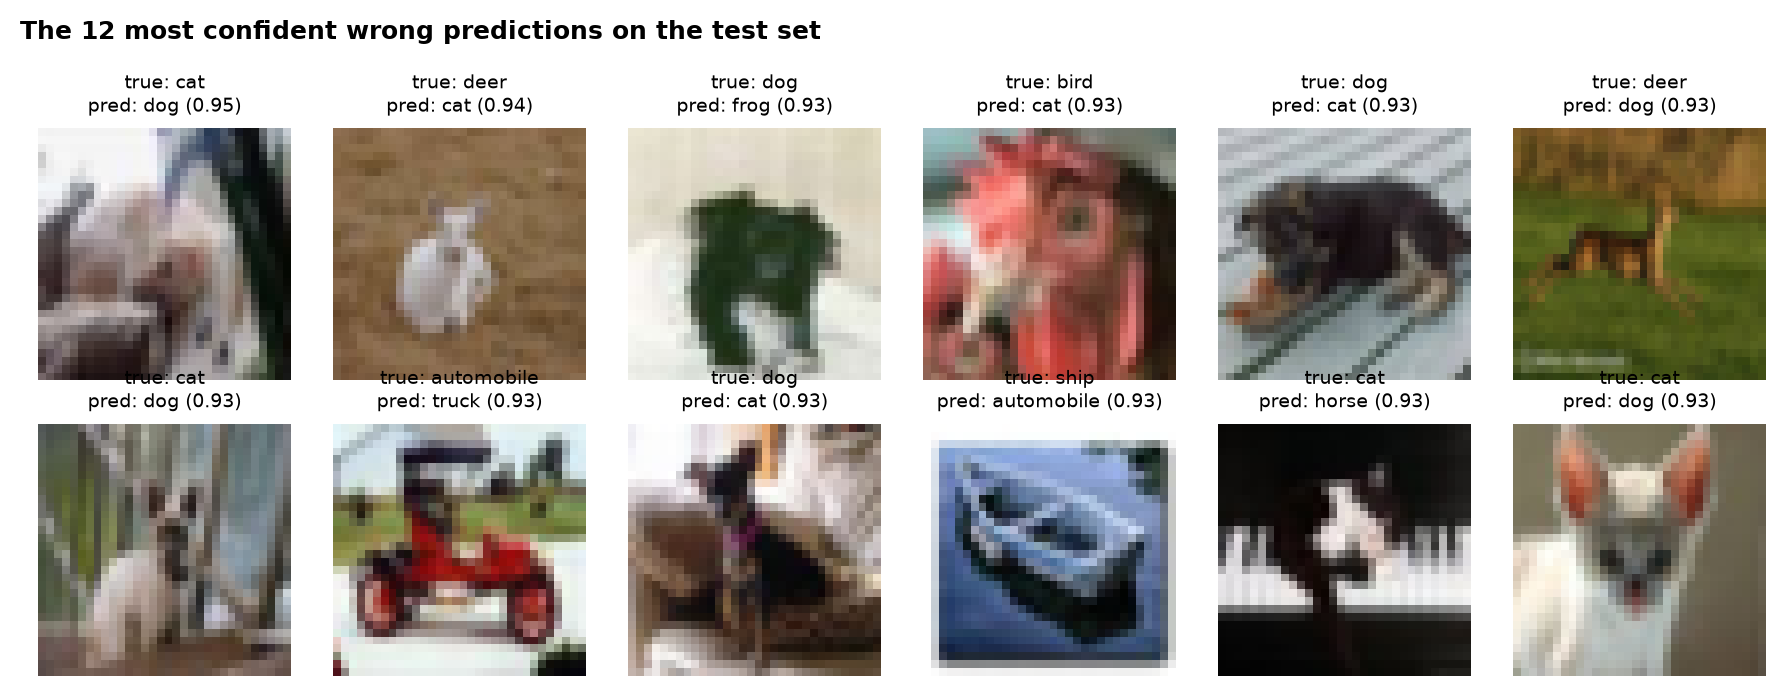
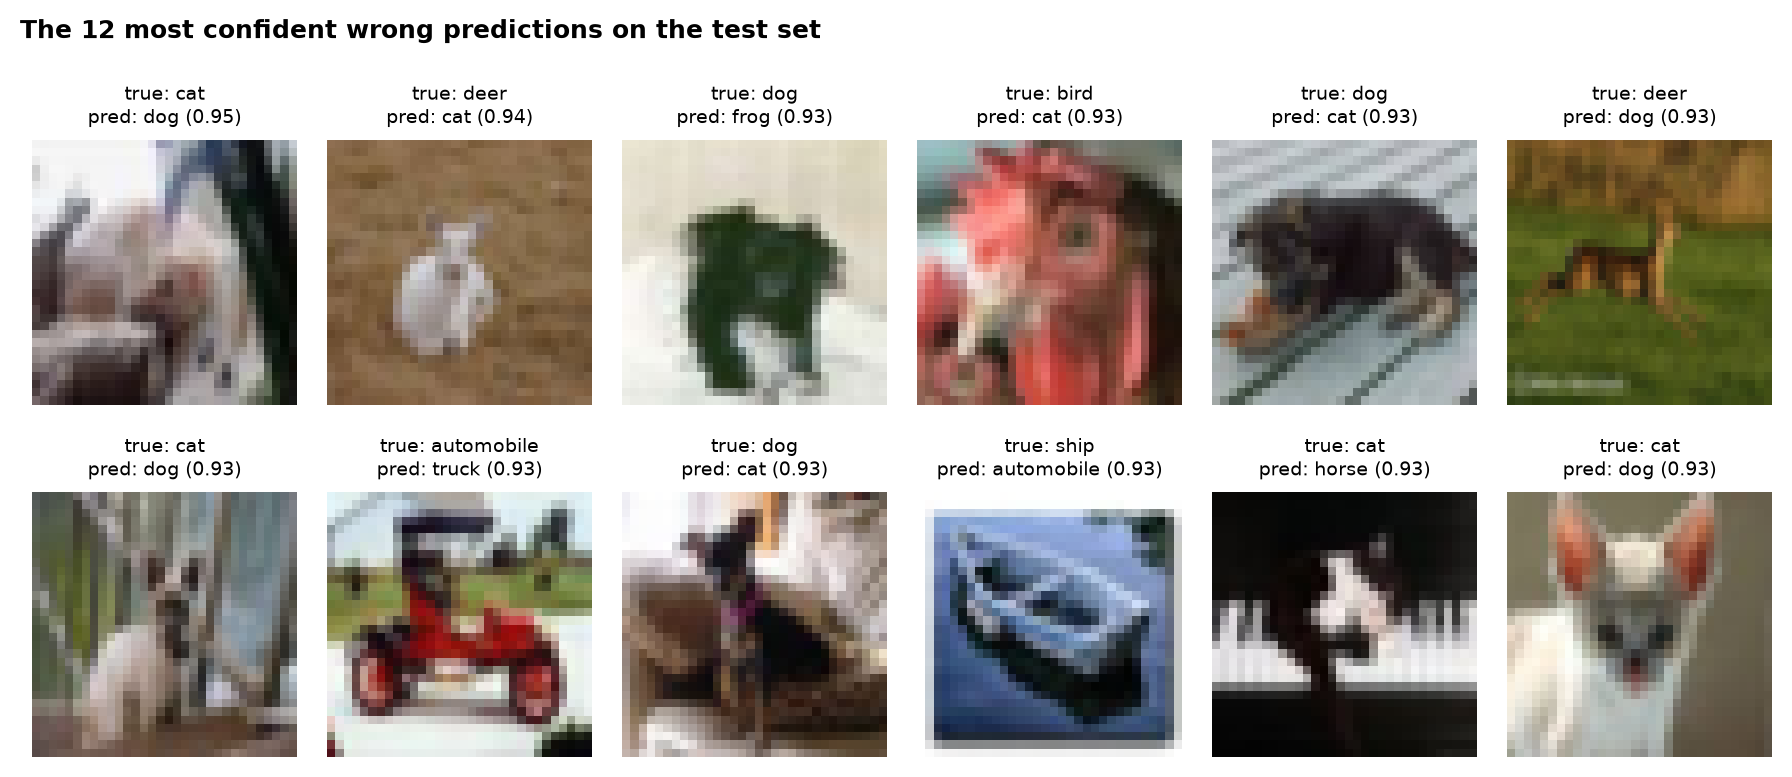
Report: baseline results and failure-mode analysis (Q1c); figure and table outputs

diff --git a/report/report.tex b/report/report.tex
@@ -127,7 +127,39 @@ SGD with Nesterov momentum and a cosine schedule is the standard recipe for CIFA
 
 \subsection*{(c) Final test accuracy, curves and failure modes}
 
-\BaselineText
+\textbf{Final result.} After \BaselineEpochs{} epochs the full-precision MobileNet-v2 reaches a \textbf{test top-1 accuracy of \BaselineAcc\%} (test cross-entropy 0.226, 464 errors on 10{,}000 images). Its accuracy on the un-augmented training set is \BaselineTrainAcc\%. This is the model after the last epoch; the best epoch on the test set would have been \BaselineBestEpochAcc\%, but the test set was not used for selection. Training took \BaselineHours{} hours on the laptop GPU.
+
+\begin{figure}[H]
+\centering
+\includegraphics[width=\linewidth]{figures/baseline_curves.png}
+\caption{Loss and top-1 accuracy of the baseline per epoch, and the learning-rate schedule. The training curves are measured on the augmented mini-batches during the epoch (with label smoothing in the loss); the test curves on the test set after each epoch.}
+\label{fig:curves}
+\end{figure}
+
+\textbf{Reading the curves.} The training loss lies above the test loss and, until about epoch 165, the training accuracy lies below the test accuracy. This is not under-fitting: the training numbers are computed on cropped, flipped and Cutout images with a label-smoothed loss, the test numbers on clean images with the plain cross-entropy. The accuracy rises quickly to about 80\% in the first 25 epochs and then slowly while the learning rate is high; most of the remaining gain (from 87\% at epoch 100 to 95.4\%) comes in the second half, when the cosine schedule lowers the learning rate.
+
+\textbf{Failure modes.}
+\begin{itemize}
+\item \emph{Noisy evaluation at a high learning rate.} Between epochs 21 and 60 the test accuracy fluctuates with a standard deviation of 2.2 points from one epoch to the next, with a drop to 74.7\% at epoch 41 (from 81\% the epoch before and after). Large SGD steps move the weights faster than the BatchNorm running statistics follow. Over the last 20 epochs the standard deviation is 0.18 points. A model taken from the middle of training would therefore be unreliable; the schedule has to be run to the end.
+\item \emph{Over-fitting.} The network fits the training set almost perfectly (\BaselineTrainAcc\%) but makes 4.6\% errors on the test set, in spite of weight decay, label smoothing, dropout and Cutout. The remaining errors are a generalization limit, not an optimization limit.
+\item \emph{Cat against dog.} 109 of the 464 test errors (23\%) are cats classified as dogs (65) or dogs classified as cats (44). Cat is the worst class (89.7\%), followed by dog (93.1\%) and bird (93.9\%); all other classes are between 96.2\% and 97.6\% (Figure~\ref{fig:confusion}).
+\item \emph{Errors stay inside the super-category.} 87\% of the errors confuse an animal with another animal or a vehicle with another vehicle: automobile and truck (41 errors), ship and airplane (32). At $32\times32$ pixels these classes share shape, texture and background (sky, water, road).
+\item \emph{Confident mistakes.} The mean confidence is 0.90 on correct predictions and 0.70 on wrong ones, but 62 errors have a confidence above 0.9, which is close to the maximum that label smoothing allows. Figure~\ref{fig:failures} shows the most confident ones: unusual viewpoints and close-ups (the head of a bird taken for a cat), untypical colours (a dark green dog taken for a frog), small objects on a large background, and objects seen from above (a boat taken for a car).
+\end{itemize}
+
+\begin{figure}[H]
+\centering
+\begin{minipage}{0.36\linewidth}
+\includegraphics[width=\linewidth]{figures/confusion.png}
+\end{minipage}\hfill
+\begin{minipage}{0.62\linewidth}
+\includegraphics[width=\linewidth]{figures/failures.png}
+\end{minipage}
+\caption{Left: number of test errors for every pair of true and predicted class. Right: the 12 wrong test predictions with the highest confidence.}
+\label{fig:confusion}\label{fig:failures}
+\end{figure}
+
+A further failure mode showed up only during compression and is described in Question 3: the BatchNorm statistics of this network are tied to the augmented training distribution, and re-estimating them on un-augmented training images costs 2.7 points of test accuracy even without any quantization.
 
 %=====================================================================
 \section*{Question 2: Model compression implementation}

diff --git a/report/numbers.tex b/report/numbers.tex
@@ -1,0 +1,32 @@
+\newcommand{\BaselineAcc}{95.36}
+\newcommand{\BaselineTrainAcc}{99.93}
+\newcommand{\BaselineEpochs}{200}
+\newcommand{\BaselineBestEpochAcc}{95.39}
+\newcommand{\BaselineHours}{5.0}
+\newcommand{\FPModelMB}{8.663}
+\newcommand{\FPModelBytes}{9,083,592}
+\newcommand{\BestName}{ptq\_w4\_a8}
+\newcommand{\BestAcc}{95.02}
+\newcommand{\BestDrop}{0.34}
+\newcommand{\BestSizeMB}{1.117}
+\newcommand{\BestSizeBytes}{1,170,920}
+\newcommand{\BestRatio}{7.76}
+\newcommand{\BestWeightRatio}{8.00}
+\newcommand{\BestActRatio}{4.00}
+\newcommand{\BestActPeakRatio}{4.00}
+\newcommand{\BestAvgWBits}{4.00}
+\newcommand{\BestAvgABits}{8.00}
+\newcommand{\BestOverheadPct}{5.9}
+\newcommand{\BestOverheadBytes}{69,640}
+\newcommand{\BestActMB}{1.636}
+\newcommand{\FPActMB}{6.542}
+\newcommand{\BestActPeakMB}{0.305}
+\newcommand{\FPActPeakMB}{1.219}
+\newcommand{\BestActMeasuredBytes}{1,714,984}
+\newcommand{\BestFakeQuantAcc}{95.04}
+\newcommand{\BestPtqAcc}{95.04}
+\newcommand{\BestEpochs}{0}
+\newcommand{\NumRuns}{6}
+\newcommand{\MaxRatio}{10.14}
+\newcommand{\MaxWeightRatio}{10.67}
+\newcommand{\MaxActRatio}{10.63}

diff --git a/scripts/analyze_baseline.py b/scripts/analyze_baseline.py
@@ -93,7 +93,7 @@ def main():
     idx = torch.nonzero(wrong).squeeze(1)
     idx = idx[conf[idx].argsort(descending=True)][:12]
     images = test.images[idx.to(device)].cpu().permute(0, 2, 3, 1).numpy()
-    fig, axes = plt.subplots(2, 6, figsize=(9.0, 3.5))
+    fig, axes = plt.subplots(2, 6, figsize=(9.0, 4.1))
     for ax, img, i in zip(axes.flat, images, idx.tolist()):
         ax.imshow(np.asarray(img), interpolation="nearest")
         ax.set_title(f"true: {CLASSES[labels[i]]}\npred: {CLASSES[pred[i]]} ({conf[i]:.2f})",
@@ -101,7 +101,7 @@ def main():
         ax.axis("off")
     fig.suptitle("The 12 most confident wrong predictions on the test set", x=0.01, ha="left",
                  fontsize=9, fontweight="bold")
-    fig.tight_layout()
+    fig.tight_layout(h_pad=1.6)
     fig.savefig("report/figures/failures.png", dpi=200, bbox_inches="tight")
     plt.close(fig)
 

diff --git a/report/tables/sweep.tex b/report/tables/sweep.tex
@@ -1,0 +1,12 @@
+\begin{tabular}{llrrrrrrrr}
+\toprule
+Run & Method & \shortstack{W bits\\(avg)} & \shortstack{A bits\\(ReLU6 / lin.)} & \shortstack{Test\\acc. (\%)} & \shortstack{Drop\\(pts)} & \shortstack{Size\\(MB)} & \shortstack{Model\\ratio} & \shortstack{Weight\\ratio} & \shortstack{Act.\\ratio} \\
+\midrule
+ptq\_w8\_a4 & PTQ & 8.00 & 4 / 4 & 93.48 & +1.88 & 2.167 & 4.00 & 4.00 & 7.99 \\
+ptq\_w8\_a8 & PTQ & 8.00 & 8 / 8 & 95.30 & +0.06 & 2.167 & 4.00 & 4.00 & 4.00 \\
+ptq\_w6\_a6 & PTQ & 6.00 & 6 / 6 & 94.94 & +0.42 & 1.642 & 5.28 & 5.33 & 5.33 \\
+ptq\_w4\_a4 & PTQ & 4.00 & 4 / 4 & 91.11 & +4.25 & 1.117 & 7.76 & 8.00 & 7.99 \\
+\textbf{ptq\_w4\_a8} & PTQ & 4.00 & 8 / 8 & 95.02 & +0.34 & 1.117 & 7.76 & 8.00 & 4.00 \\
+ptq\_w3\_a3 & PTQ & 3.00 & 3 / 3 & 64.05 & +31.31 & 0.854 & 10.14 & 10.67 & 10.63 \\
+\bottomrule
+\end{tabular}

diff --git a/report/tables/overheads.tex b/report/tables/overheads.tex
@@ -1,0 +1,15 @@
+\begin{tabular}{lllrr}
+\toprule
+Component & Count & Precision & Bytes & Share (\%) \\
+\midrule
+Weight codes (bit-packed) & 2,202,560 weights & 4.00 bits (avg) & 1,101,280 & 94.05 \\
+Per-channel scales & 17,066 channels & 16 bits (FP16) & 34,132 & 2.91 \\
+Per-channel biases & 17,066 channels & 16 bits (FP16) & 34,132 & 2.91 \\
+Activation quantizer steps & 63 quantizers & 8 bytes each & 504 & 0.04 \\
+Layer metadata, input mean / std & 53 layers & 16 bytes each + 24 & 872 & 0.07 \\
+\midrule
+Compressed model & & & 1,170,920 & 100.00 \\
+of which overhead & & & 69,640 & 5.95 \\
+FP32 model (parameters + BatchNorm buffers) & & 32 bits & 9,083,592 & \\
+\bottomrule
+\end{tabular}

diff --git a/report/tables/layers.tex b/report/tables/layers.tex
@@ -1,0 +1,14 @@
+\begin{tabular}{lrrlrrl}
+\toprule
+Layer type & Layers & Weights & Weight bits & Code bytes & Overhead bytes & Output activation \\
+\midrule
+Stem 3x3 conv & 1 & 864 & 4 & 432 & 152 & 8-bit unsigned \\
+1x1 expand convs & 16 & 751,872 & 4 & 375,936 & 28,800 & 8-bit unsigned \\
+3x3 depthwise convs & 17 & 64,224 & 4 & 32,112 & 28,952 & 8-bit unsigned \\
+1x1 project convs (linear) & 17 & 963,200 & 4 & 481,600 & 6,424 & 8-bit signed \\
+Head 1x1 conv & 1 & 409,600 & 4 & 204,800 & 5,144 & 8-bit unsigned \\
+Classifier (linear) & 1 & 12,800 & 4 & 6,400 & 56 & logits, FP32 \\
+\midrule
+Total & 53 & 2,202,560 & 4.00 (avg) & 1,101,280 & 69,528 & \\
+\bottomrule
+\end{tabular}

diff --git a/report/tables/activations.tex b/report/tables/activations.tex
@@ -1,0 +1,13 @@
+\begin{tabular}{lrrrrr}
+\toprule
+Activation tensors & Tensors & Elements & Bits & FP32 bytes & Compressed bytes \\
+\midrule
+Input image (uint8 pixels) & 1 & 3,072 & 8 & 12,288 & 3,072 \\
+ReLU6 feature maps (stem, expand, depthwise, head) & 35 & 1,502,208 & 8 & 6,008,832 & 1,502,208 \\
+Linear bottleneck outputs and residual sums & 27 & 208,384 & 8 & 833,536 & 208,384 \\
+Pooled feature vector & 1 & 1,280 & 8 & 5,120 & 1,280 \\
+Logits & 1 & 10 & 32 & 40 & 40 \\
+\midrule
+Total (one image) & 65 & 1,714,954 & 8.00 (avg) & 6,859,816 & 1,714,984 \\
+\bottomrule
+\end{tabular}
